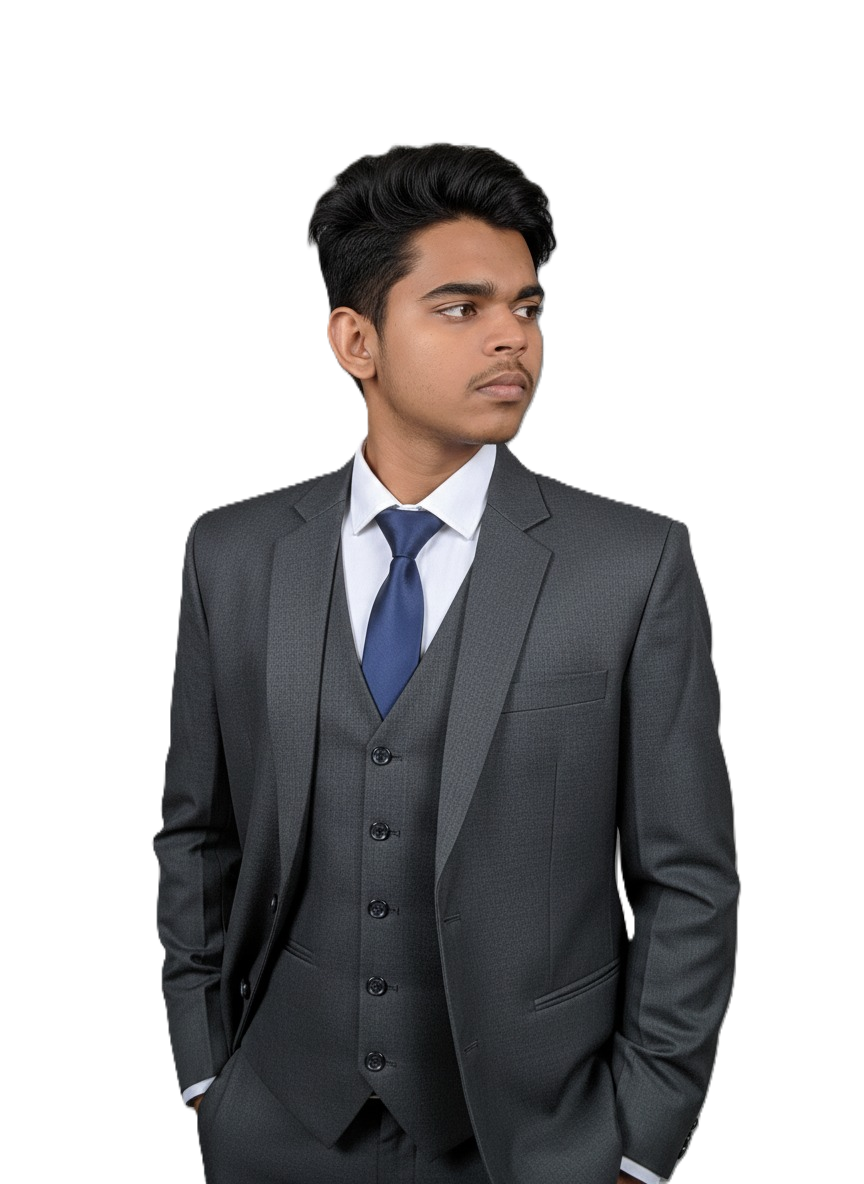
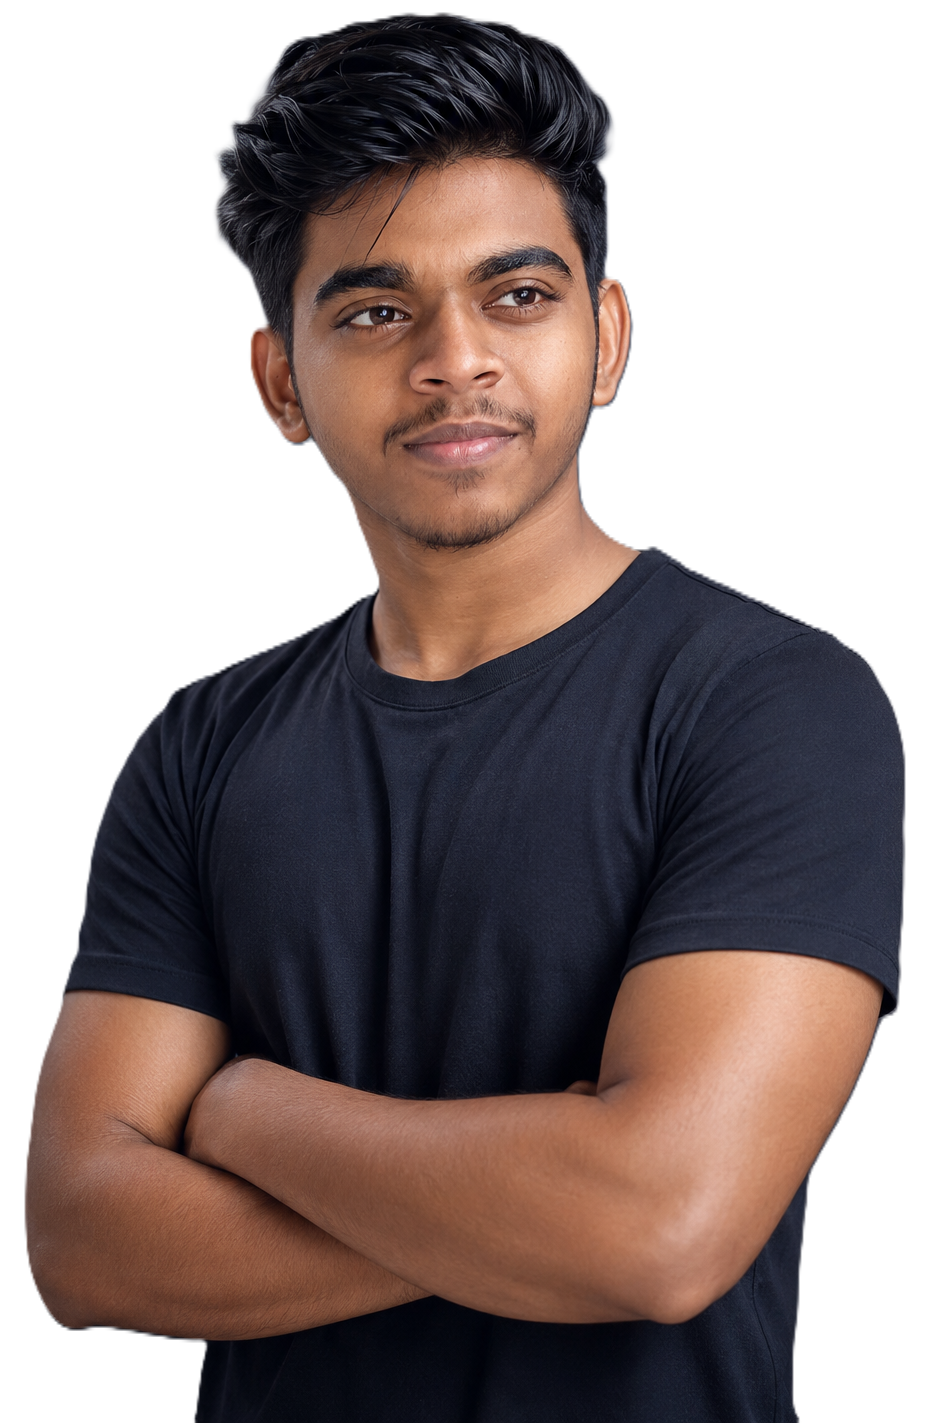
Update portfolio images and adjust Hero component styling

diff --git a/client/src/components/Hero.tsx b/client/src/components/Hero.tsx
@@ -60,7 +60,7 @@ const Hero = () => {
           alt="Portfolio Image"
           loading="lazy"
           className="
-            rounded-[40%] sm:w-56 lg:w-96 
+            sm:w-56 lg:w-96 
             drop-shadow-[15px_20px_20px_rgba(0,0,0,0.6)] 
             dark:drop-shadow-[0_0_25px_rgba(255,166,0,0.3)]
             animate-drift w-80 md:w-auto
